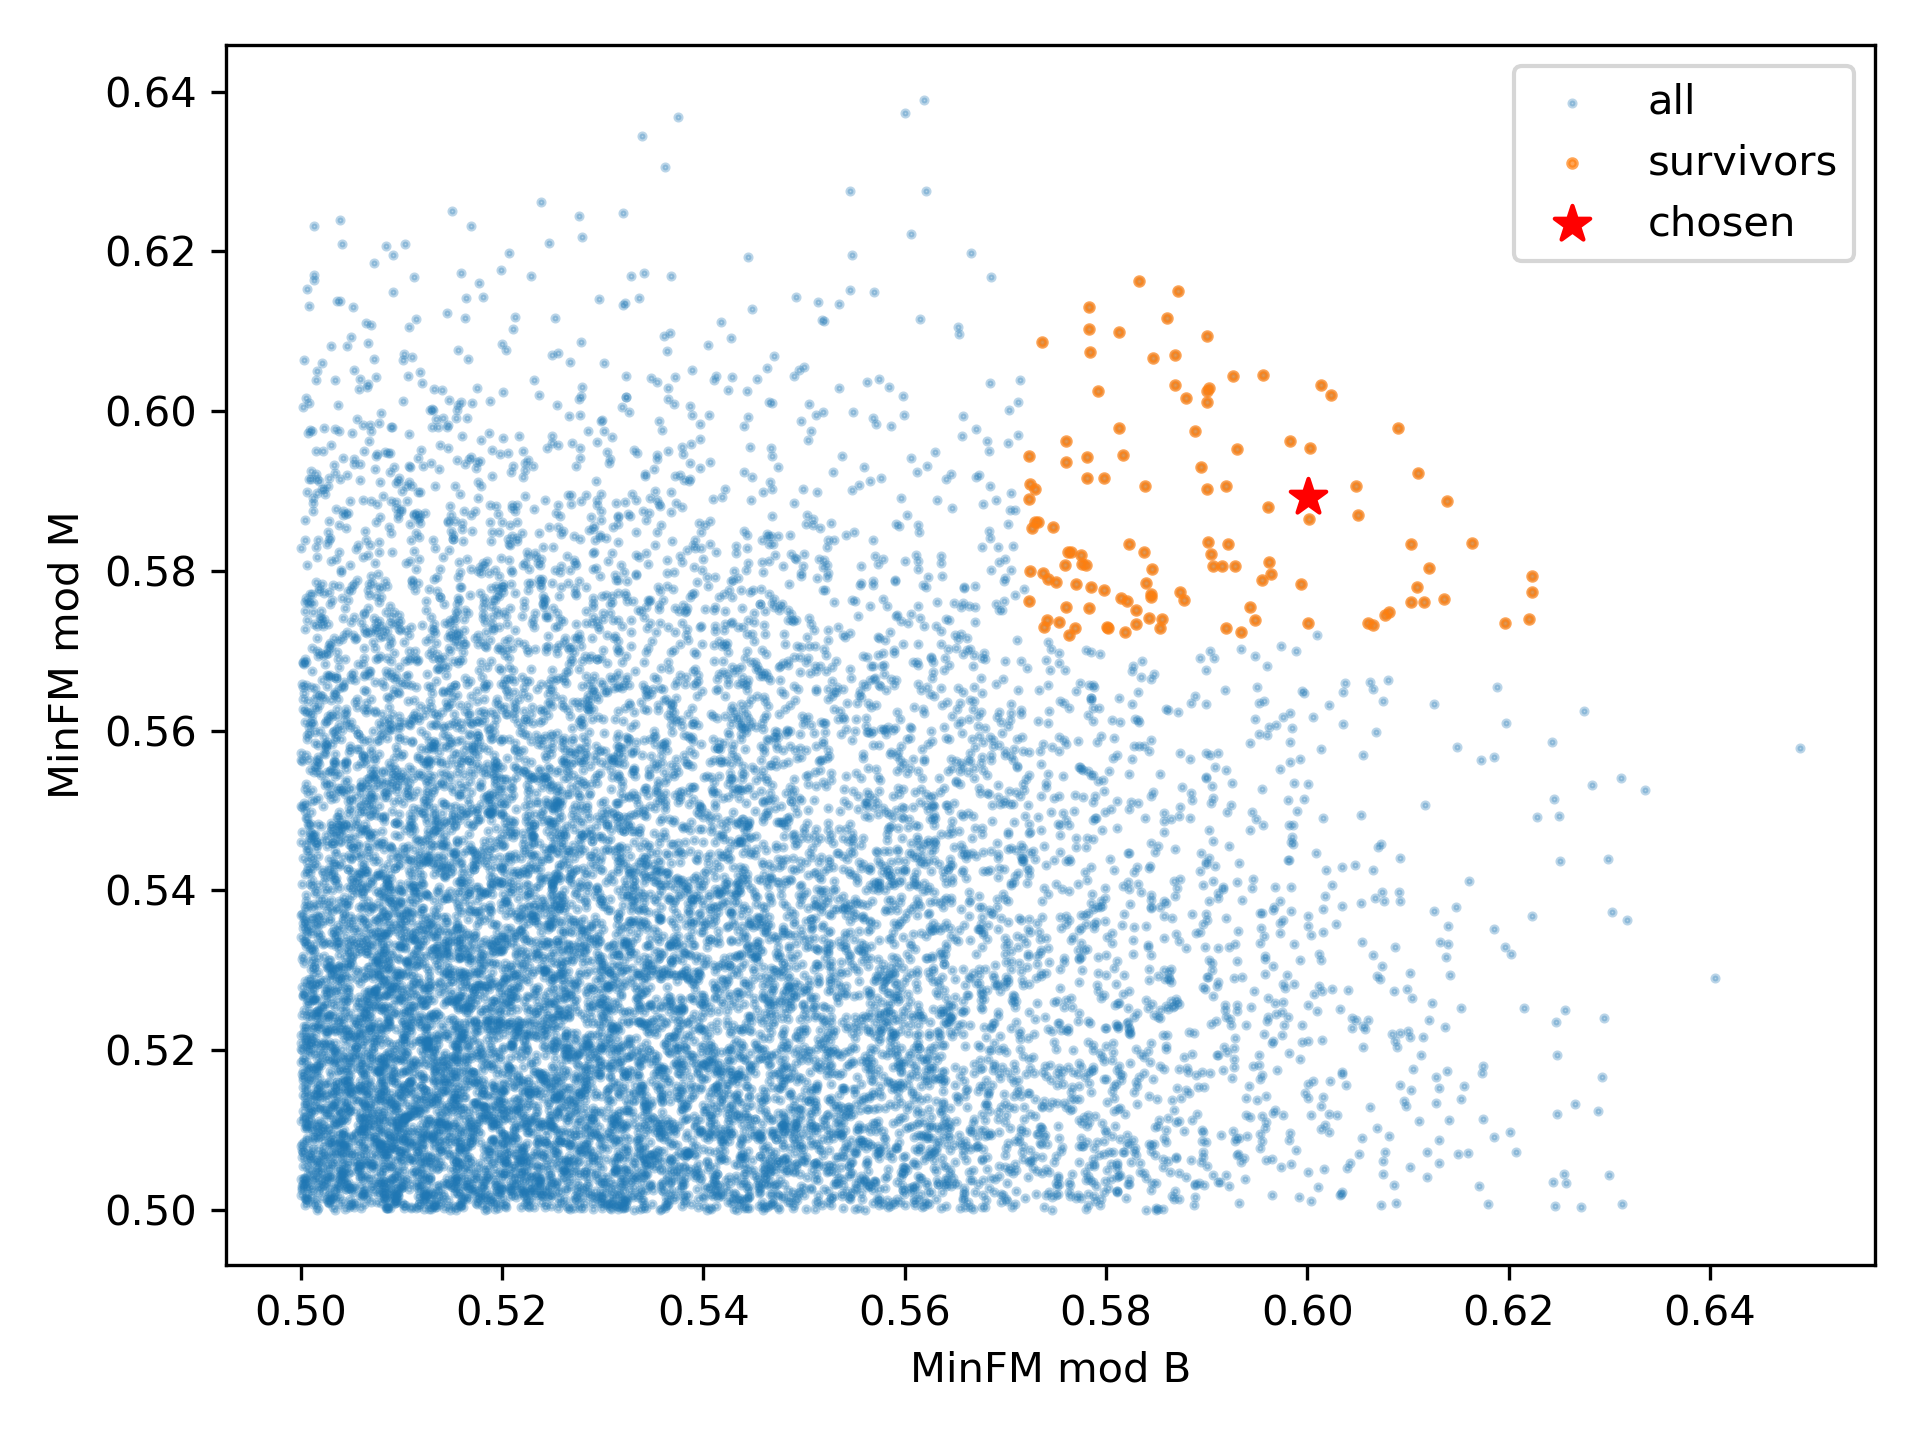
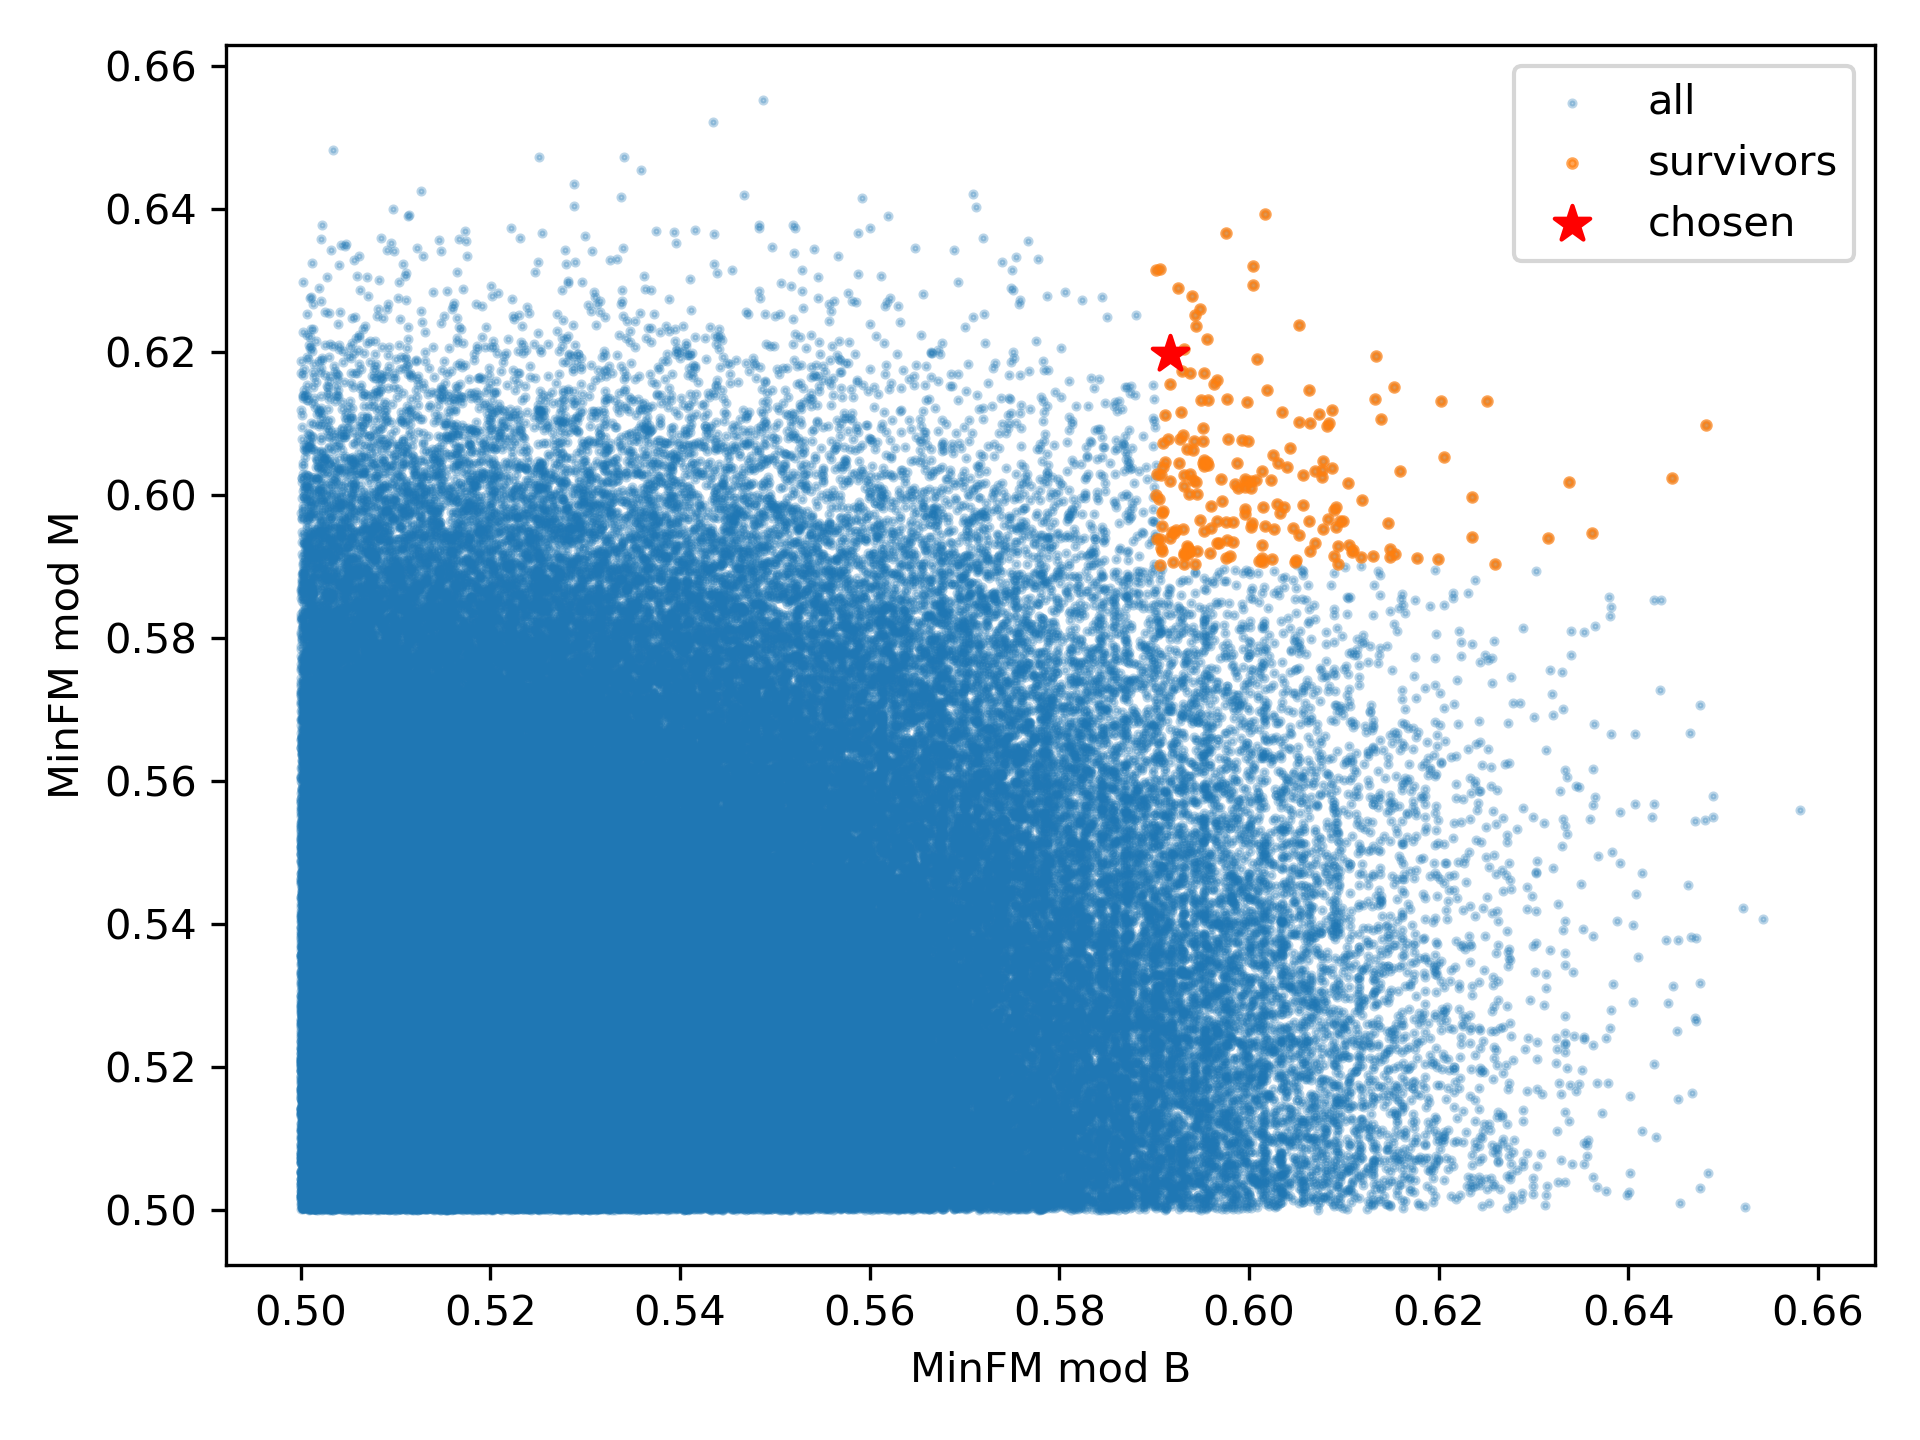
Try more multipliers

diff --git a/choose-candidate.py b/choose-candidate.py
@@ -9,7 +9,7 @@ data.drop_duplicates(inplace=True)
 data["min_fm"] = data[["MinFM mod B", "MinFM mod M"]].min(axis=1)
 data["geom_mean"] = (data["Spectral mod B"] * data["Spectral mod M"]) ** 0.5
 
-threshold = data["min_fm"].quantile(0.99)
+threshold = data["min_fm"].quantile(0.999)
 survivors = data.loc[data["min_fm"] >= threshold]
 chosen = survivors.loc[survivors["geom_mean"].idxmax()]
 

diff --git a/src/search.cpp b/src/search.cpp
@@ -183,7 +183,7 @@ std::vector<Candidate> search(std::atomic<size_t> &counter, size_t total, size_t
 
 int main(void) {
   size_t thread_count = std::thread::hardware_concurrency() - 1;
-  size_t total = 4294967296;
+  size_t total = 68719476736;
 
   uint64_t seed = splitmix(42);
 

diff --git a/readme.md b/readme.md
@@ -15,7 +15,7 @@ typedef struct {
   uint64_t carry;
 } Fmc256;
 
-#define MUL 0xfff741454b88163d
+#define MUL 0xfffd24a42f29f095
 
 Fmc256 Fmc256_new(uint64_t seed[4]) {
   Fmc256 rng;
